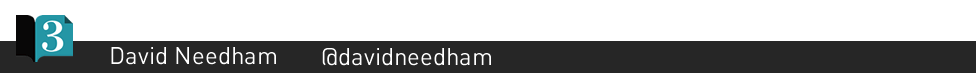
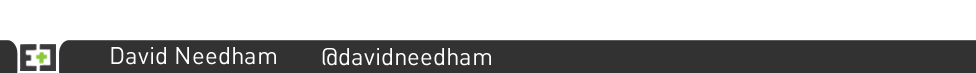
Updating the theme and content to be more relevant for this presentation.

Changed region(s): [[0.0, 0.1918, 1.0, 1.0]]

diff --git a/_posts/9999-1-1-Thanks.md b/_posts/9999-1-1-Thanks.md
@@ -15,10 +15,11 @@ data:
 <br />
 <pre>http://is.gd/panelsforthemers</pre>
 <br />
-<span>Leveling Up Your Themer BLOG:</span>
-<pre><a href="http://is.gd/LUYTblog">http://is.gd/LUYTblog</a></pre>
+<span>Drupalcon Portland:</span>
+<pre><a href="http://is.gd/themingforsitebuilders">http://is.gd/themingforsitebuilders</a></pre>
+
 <br />
-<span>Leveling Up Your Themer TRAINING:</span>
-<pre><a href="http://chapterthree.com/training">http://chapterthree.com/training</a></pre>
-<p>David Needham&nbsp;&nbsp;&nbsp;&nbsp;&nbsp;@davidneedham<br />
-Eric Casequin&nbsp;&nbsp;&nbsp;&nbsp;&nbsp;@ericcasequin</p>
+<span>Go comment on:</span>
+<pre><a href="http://portland2013.drupal.org/node/838">http://portland2013.drupal.org/node/838</a>
+<a href="http://portland2013.drupal.org/node/833">http://portland2013.drupal.org/node/833</a></pre>
+<p>David Needham&nbsp;&nbsp;&nbsp;&nbsp;&nbsp;@davidneedham</p>

diff --git a/_posts/0001-1-1-Title-Slide.md b/_posts/0001-1-1-Title-Slide.md
@@ -10,8 +10,7 @@ data:
   x: 0
   y: 0
 ---
-<p>&nbsp;</p>
 <p>Presented by<br />
-<b>David Needham</b> and <b>Eric Casequin</b></p>
-<p>&nbsp;</p>
+<b>David Needham</b><br /></p>
+<p><img width="400px" style="float:none;" src="/images/logo-huge-white.png" /></p>
 <p>Slides: <b>http://is.gd/panelsforthemers</b></p>

diff --git a/_posts/0002-1-1-Who-are-you.md b/_posts/0002-1-1-Who-are-you.md
@@ -1,0 +1,16 @@
+---
+layout: default
+title: Wait a minute...
+subtitle: aren't you that one guy?
+published: true
+classes:
+ - slide
+ - regular-slide
+data:
+  x: 0
+  y: 0
+
+---
+
+<p>...from that one company in San Francisco?</p>
+<p>...and why Minneapolis in February?!</p>

diff --git a/_posts/0003-1-1-Did-you-say-themer.md b/_posts/0003-1-1-Did-you-say-themer.md
@@ -1,7 +1,7 @@
 ---
 layout: default
 title: Wait a minute...
-subtitle: did you say themer?
+subtitle: what is a themer?
 published: true
 classes:
  - slide
